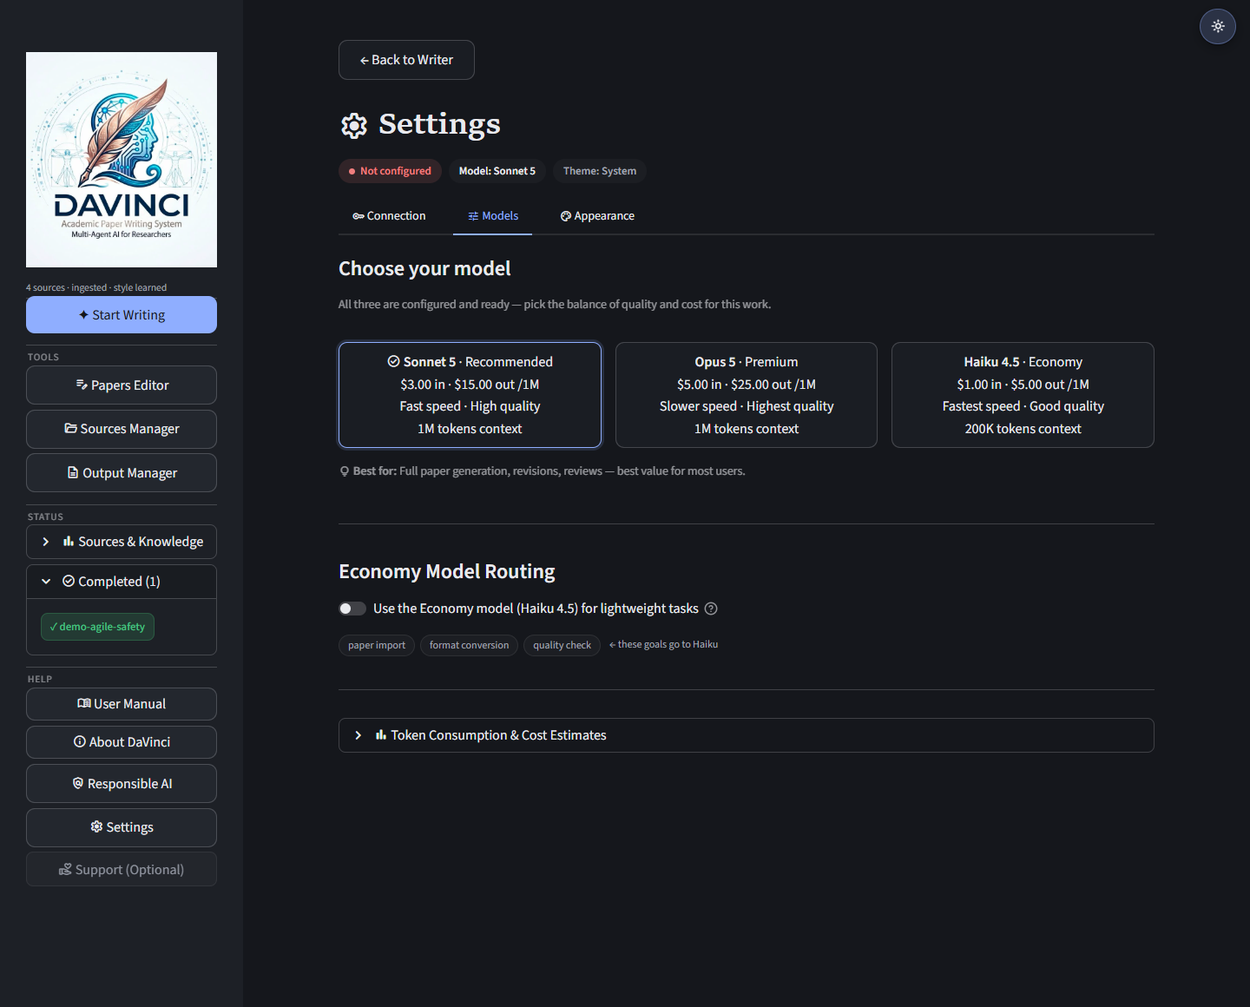
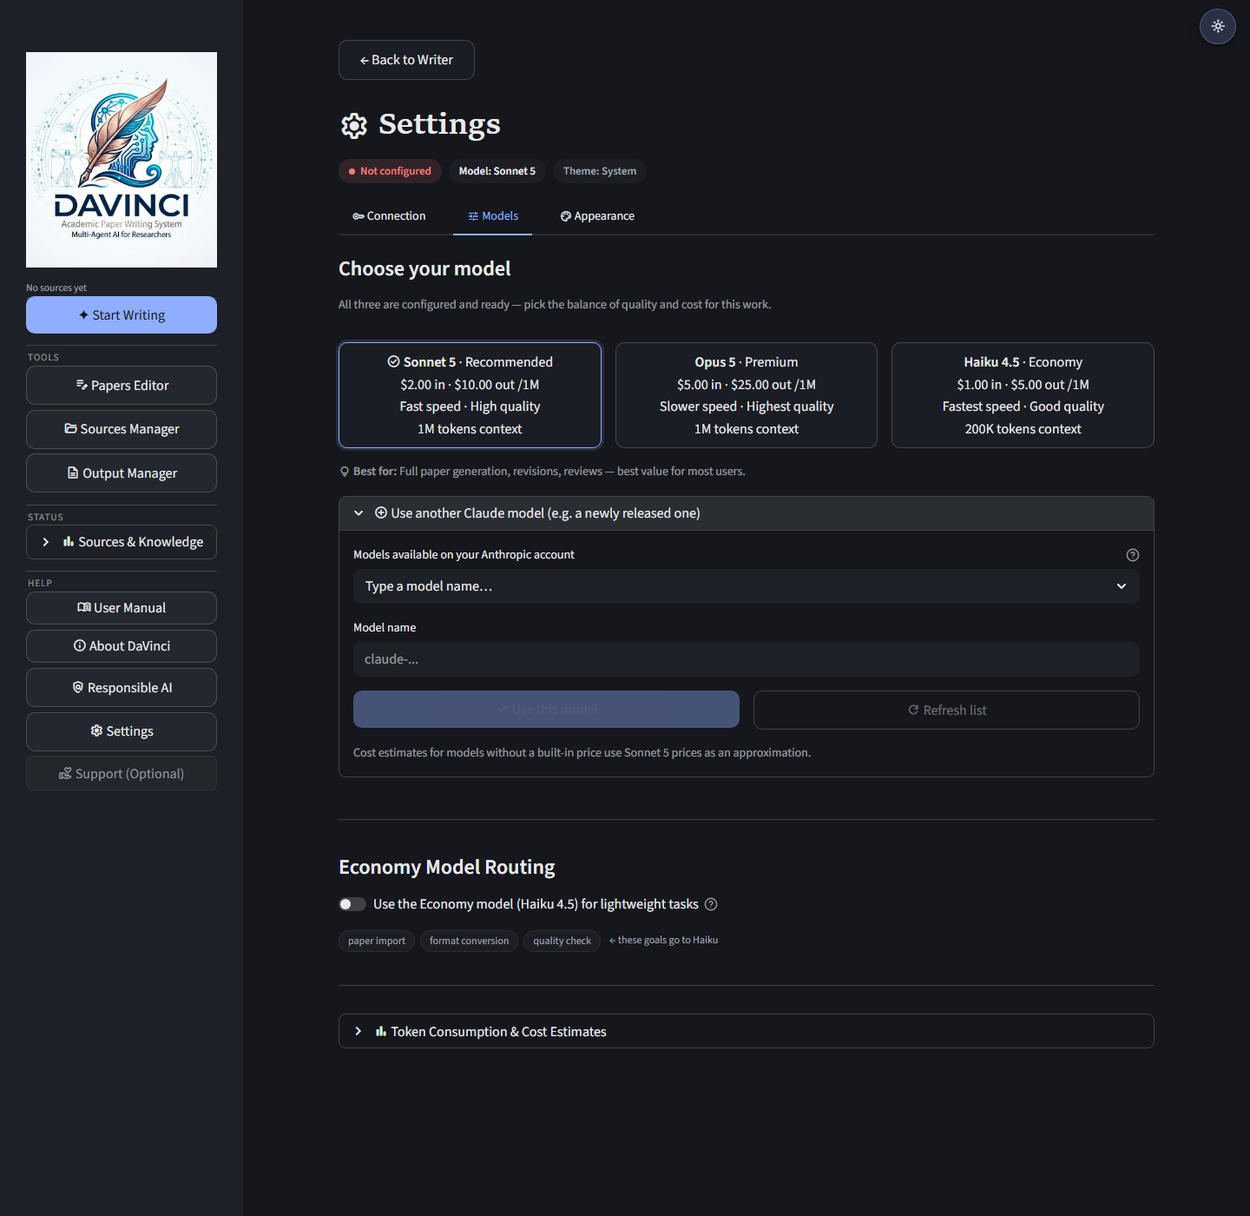
Settings: pick any Claude model on the account, local server presets, updated pricing
- Models tab lists all account models (incl. new releases) with refresh and free-text entry
- Local endpoint presets for Ollama, LM Studio and LiteLLM with plain-language setup guide
- Sonnet 5 price updated to $2/$10; added Sonnet 5.5, Opus 5.5, Haiku 5.5, Fable 5.1 prices
- Disabled primary buttons are greyed out
- Docs and screenshots updated

diff --git a/web/app.py b/web/app.py
@@ -483,6 +483,12 @@ h1, h2, h3,
     box-shadow: 0 1px 2px rgba(0,0,0,0.4), 0 4px 14px rgba(0,0,0,0.3);
     transform: translateY(-1px);
 }
+.stButton button[kind="primary"]:disabled {
+    opacity: 0.4;
+    cursor: not-allowed;
+    box-shadow: none;
+    transform: none;
+}
 /* Focus ring — accessibility */
 .stButton button:focus-visible {
     outline: 2px solid var(--primary) !important;
@@ -2057,7 +2063,7 @@ def _call_claude(system_prompt: str, user_message: str, progress_placeholder=Non
 
         # Accumulate session-wide usage and an estimated cost for the sidebar
         # (a local endpoint costs nothing)
-        p_in, p_out = (0.0, 0.0) if base_url else _MODEL_PRICES.get(model, (3.00, 15.00))
+        p_in, p_out = (0.0, 0.0) if base_url else _MODEL_PRICES.get(model, (2.00, 10.00))
         turn_cost = (
             usage_totals["input"] * p_in
             + usage_totals["cache_read"] * p_in * 0.1
@@ -2904,8 +2910,8 @@ elif st.session_state.page == "settings":
             "desc": "Best balance of quality, speed, and cost. Excellent for academic writing with strong reasoning.",
             "speed": "Fast",
             "quality": "High",
-            "cost_input": "$3.00",
-            "cost_output": "$15.00",
+            "cost_input": "$2.00",
+            "cost_output": "$10.00",
             "context": "1M tokens",
             "best_for": "Full paper generation, revisions, reviews — best value for most users.",
         },
@@ -3065,38 +3071,64 @@ elif st.session_state.page == "settings":
             # ---- Local endpoint pane ----
             st.caption(
                 "Run DaVinci cost-free against a local model through any server that speaks the "
-                "Anthropic Messages API — for example a LiteLLM proxy in front of Ollama. "
+                "Anthropic Messages API — Ollama, LM Studio, or a LiteLLM proxy. "
                 "No API key required."
             )
             if _local_active:
                 st.success(
                     f"Active: `{html.escape(_custom_base_url())}` · model `{html.escape(os.getenv('ANTHROPIC_MODEL', ''))}`"
                 )
-            with st.expander(":material/computer: How to set up Ollama + LiteLLM", expanded=not _local_active):
-                st.markdown("""
-1. Install [Ollama](https://ollama.com/) and pull a **tool-capable** model:
-   ```
-   ollama pull qwen2.5:14b
-   ```
-   (Also good: `llama3.1:8b` / `llama3.1:70b`, `mistral-nemo`. The model **must** support tool calling.)
-2. Start a [LiteLLM](https://docs.litellm.ai/) proxy that translates Anthropic ↔ Ollama:
-   ```
-   pip install "litellm[proxy]"
-   litellm --model ollama_chat/qwen2.5:14b --port 4000
-   ```
-3. Enter `http://localhost:4000` below, click **Test connection**, pick the model, and activate.
+            _SERVERS = {
+                "Ollama": "http://localhost:11434",
+                "LM Studio": "http://localhost:1234",
+                "LiteLLM proxy": "http://localhost:4000",
+                "Other": "",
+            }
+            if "custom_base_url_input" not in st.session_state:
+                st.session_state["custom_base_url_input"] = _custom_base_url() or _SERVERS["Ollama"]
 
-:material/warning: **Expectations:** local models are much weaker than Claude on this pipeline
-(tool-calling reliability, context length, writing quality). Best for imports,
-format conversion, and early drafts — switch back to the cloud for final papers.
+            def _on_server_change():
+                _url = _SERVERS[st.session_state["local_server_kind"]]
+                if _url:
+                    st.session_state["custom_base_url_input"] = _url
+                st.session_state.pop("_endpoint_models", None)
+
+            st.radio(
+                "Which program runs your model?",
+                list(_SERVERS),
+                horizontal=True,
+                key="local_server_kind",
+                on_change=_on_server_change,
+            )
+            with st.expander(":material/help: Step-by-step setup", expanded=not _local_active):
+                st.markdown("""
+**Ollama** (simplest)
+1. Install [Ollama](https://ollama.com/) and download a model, e.g. `ollama pull gemma4:31b` or `ollama pull qwen2.5:14b`.
+2. Keep Ollama running — that's it. Recent Ollama versions speak DaVinci's language directly.
+
+**LM Studio**
+1. Install [LM Studio](https://lmstudio.ai/), download and load a model.
+2. Open the **Developer** tab and click **Start Server**.
+
+**LiteLLM proxy** (only if your Ollama / LM Studio version is too old to connect directly)
+```
+pip install "litellm[proxy]"
+litellm --model ollama_chat/qwen2.5:14b --port 4000
+```
+
+**Then:** click **Connect & find models** below, pick your model from the list, and click **Use this endpoint**.
+
+:material/info: The model on another computer? Replace `localhost` with that computer's network address (e.g. `http://192.168.1.20:11434`).
+
+:material/warning: Pick a model that supports **tool calling** (Gemma 4, Qwen 2.5+, Llama 3.1+, Mistral Nemo…).
+Local models are weaker than Claude — great for imports, conversions and early drafts; switch to the cloud for final papers.
 """)
             _in_url = st.text_input(
-                "Endpoint base URL",
-                value=_custom_base_url(),
-                placeholder="http://localhost:4000",
+                "Server address",
+                placeholder="http://localhost:11434",
                 key="custom_base_url_input",
             )
-            if st.button(":material/search: Test connection", disabled=not _in_url.strip(), width="content"):
+            if st.button(":material/search: Connect & find models", disabled=not _in_url.strip(), width="content"):
                 _ok, _msg, _ids = _test_local_endpoint(_in_url.strip())
                 (st.success if _ok else st.error)(_msg)
 
@@ -3116,7 +3148,7 @@ format conversion, and early drafts — switch back to the cloud for final paper
                 _in_model = st.text_input(
                     "Model ID at this endpoint",
                     value=os.getenv("ANTHROPIC_MODEL", "") if _local_active else "",
-                    placeholder="ollama_chat/qwen2.5:14b",
+                    placeholder="e.g. gemma4:31b",
                     key="custom_model_id_input",
                 )
             else:
@@ -3202,8 +3234,52 @@ format conversion, and early drafts — switch back to the cloud for final paper
             _sel_info = _MODEL_INFO.get(current_model)
             if _sel_info:
                 st.caption(f":material/lightbulb: **Best for:** {_sel_info['best_for']}")
+
+            # Fetch the account's model list once per session so new releases show up automatically
+            if current_key and _cloud_models is None and not st.session_state.get("_cloud_models_tried"):
+                st.session_state["_cloud_models_tried"] = True
+                _test_anthropic_key(current_key)
+                _cloud_models = st.session_state.get("_cloud_models")
             if _cloud_models is None and current_key:
                 st.caption("Tip: *Save & Test* your key in the Connection tab to check per-model availability.")
+
+            _extra_models = [m for m in (_cloud_models or []) if m not in _MODEL_INFO]
+            _using_other = current_model not in _MODEL_INFO
+            with st.expander(
+                ":material/add_circle: Use another Claude model (e.g. a newly released one)",
+                expanded=_using_other,
+            ):
+                if _using_other:
+                    st.success(f"Currently using `{html.escape(current_model)}`")
+                _TYPE_OPT = "Type a model name…"
+                _other_opts = _extra_models + [_TYPE_OPT]
+                _other_pick = st.selectbox(
+                    "Models available on your Anthropic account",
+                    options=_other_opts,
+                    index=_other_opts.index(current_model) if current_model in _extra_models else 0,
+                    help="This list comes straight from Anthropic, so new models appear here as soon as they are released.",
+                )
+                if _other_pick == _TYPE_OPT:
+                    _other_model = st.text_input("Model name", placeholder="claude-...", key="cloud_custom_model")
+                else:
+                    _other_model = _other_pick
+                _oc1, _oc2 = st.columns(2)
+                with _oc1:
+                    if st.button(
+                        ":material/check: Use this model",
+                        type="primary",
+                        disabled=not (_other_model or "").strip() or _other_model == current_model,
+                        width="stretch",
+                    ):
+                        _set_env_vars({"ANTHROPIC_MODEL": _other_model.strip()})
+                        st.toast(f"Model changed to {_other_model.strip()}", icon=":material/check_circle:")
+                        st.rerun()
+                with _oc2:
+                    if st.button(":material/refresh: Refresh list", disabled=not current_key, width="stretch"):
+                        _ok, _msg = _test_anthropic_key(current_key)
+                        (st.toast if _ok else st.error)(_msg)
+                        st.rerun()
+                st.caption("Cost estimates for models without a built-in price use Sonnet 5 prices as an approximation.")
 
             st.markdown("---")
 
@@ -3249,15 +3325,15 @@ format conversion, and early drafts — switch back to the cloud for final paper
             _cost_tab_sonnet, _cost_tab_opus, _cost_tab_haiku = st.tabs([":material/paid: Sonnet 5", ":material/diamond: Opus 5", ":material/bolt: Haiku 4.5"])
 
             with _cost_tab_sonnet:
-                st.markdown("**$3.00 USD / 1M input** · **$15.00 USD / 1M output**")
+                st.markdown("**$2.00 USD / 1M input** · **$10.00 USD / 1M output**")
                 st.markdown("""
 | Task | Input Tokens | Output Tokens | Cost (USD) |
 |------|-------------|---------------|------------|
-| Ingest 1 source | ~5K–15K | ~2K–4K | ~$0.05–$0.08 |
-| Write full paper | ~30K–80K | ~15K–30K | ~$0.30–$0.70 |
-| Improve/revise | ~40K–100K | ~10K–25K | ~$0.25–$0.50 |
-| Peer review sim | ~20K–50K | ~5K–10K | ~$0.15–$0.25 |
-| Full pipeline | ~100K–200K | ~40K–60K | ~$1.00–$1.50 |
+| Ingest 1 source | ~5K–15K | ~2K–4K | ~$0.03–$0.07 |
+| Write full paper | ~30K–80K | ~15K–30K | ~$0.21–$0.46 |
+| Improve/revise | ~40K–100K | ~10K–25K | ~$0.18–$0.45 |
+| Peer review sim | ~20K–50K | ~5K–10K | ~$0.09–$0.20 |
+| Full pipeline | ~100K–200K | ~40K–60K | ~$0.60–$1.00 |
 """)
 
             with _cost_tab_opus:

diff --git a/web/davinci_core.py b/web/davinci_core.py
@@ -22,9 +22,14 @@ VENUES_DIR = SOURCES_DIR / "venues"
 _DEFAULT_MODEL = "claude-sonnet-5"
 # USD per 1M tokens (input, output) — used for the session cost estimate
 _MODEL_PRICES = {
-    "claude-sonnet-5": (3.00, 15.00),
+    "claude-sonnet-5": (2.00, 10.00),
     "claude-opus-5": (5.00, 25.00),
     "claude-haiku-4-5": (1.00, 5.00),
+    "claude-sonnet-5-5": (2.00, 10.00),
+    "claude-opus-5-5": (4.00, 20.00),
+    # Prompts over 100K tokens cost $0.50 / $2.50 on Haiku 5.5
+    "claude-haiku-5-5": (0.10, 0.50),
+    "claude-fable-5-1": (10.00, 50.00),
 }
 # Lightweight goals routed to ANTHROPIC_MODEL_FAST when configured in Settings
 _FAST_MODEL_GOALS = {"import", "convert", "quality"}

diff --git a/docs/USER-MANUAL.md b/docs/USER-MANUAL.md
@@ -421,7 +421,7 @@ The Settings page is organized into three tabs:
 First choose **where DaVinci should run**:
 
 - **Anthropic Cloud** — the default. Best quality; requires an API key.
-- **Local endpoint** — cost-free generation through a local model server (Ollama behind a LiteLLM proxy, LM Studio, or any server that speaks the Anthropic Messages API).
+- **Local endpoint** — cost-free generation through a local model server (Ollama, LM Studio, a LiteLLM proxy, or any server that speaks the Anthropic Messages API).
 
 A **transparency note** under the choice reminds you that Anthropic Cloud receives your source text and drafts, while a local endpoint keeps everything on your machine.
 
@@ -435,10 +435,16 @@ A **transparency note** under the choice reminds you that Anthropic Cloud receiv
 
 **Local endpoint pane:**
 
-- A built-in **setup recipe** for Ollama + LiteLLM (expandable, step-by-step)
-- **Endpoint URL input** with **Test connection** — probes the server and fetches available models so you can choose from a dropdown
+![Local endpoint settings](images/settings-local-endpoint.png)
+![Local endpoint settings (Light Theme)](images/settings-local-endpoint-light.png)
+
+- **Which program runs your model?** — choose **Ollama**, **LM Studio**, **LiteLLM proxy**, or **Other**; the usual server address is filled in automatically (`http://localhost:11434`, `:1234`, `:4000`)
+- A built-in **step-by-step setup guide** for each option, including how to reach a model running on another computer on your network
+- **Server address** with **Connect & find models** — probes the server and lists the models installed there so you can pick one from a dropdown (or type its name)
 - **Use this endpoint** — activates local generation (no API key needed; session cost shows as free)
 - **Back to Anthropic cloud** — one click to switch back
+
+> **Tip:** Pick a model that supports **tool calling** (e.g. Gemma 4, Qwen 2.5+, Llama 3.1+, Mistral Nemo). If an older Ollama or LM Studio version will not connect directly, run a LiteLLM proxy in front of it and choose **LiteLLM proxy**.
 
 > **Privacy:** Your API key is stored only in the `.env` file on your machine. It is never sent to any server other than Anthropic's API.
 >
@@ -447,14 +453,17 @@ A **transparency note** under the choice reminds you that Anthropic Cloud receiv
 ### 🤖 Models Tab
 
 ![Models tab](images/settings-model-costs.png)
+![Models tab (Light Theme)](images/settings-model-costs-light.png)
 
 Pick your model from three side-by-side **comparison cards** — each shows the price per million tokens, speed, quality, and context window. Click a card to select it; the active card is highlighted. After a key test, each card also shows whether that model is available on your account.
 
 | Model | Best For | Speed | Cost (per 1M tokens) |
 |-------|----------|-------|------|
-| **Sonnet 5** (Recommended) | Full paper generation, revisions, reviews | Fast | \$3 in · \$15 out |
+| **Sonnet 5** (Recommended) | Full paper generation, revisions, reviews | Fast | \$2 in · \$10 out |
 | **Opus 5** (Premium) | Complex papers, novel argumentation, final polishing | Slower | \$5 in · \$25 out |
 | **Haiku 4.5** (Economy) | Paper import, format conversion, quality checks | Fastest | \$1 in · \$5 out |
+
+**Use another Claude model** — below the cards, this section lists every model available on your Anthropic account (fetched automatically, with a **Refresh list** button), so newly released models such as Sonnet 5.5, Opus 5.5, or Haiku 5.5 can be selected without any update. You can also type a model name. Cost estimates are built in for these newer models; any unknown model is estimated at Sonnet 5 prices.
 
 **Economy Model Routing** — routes lightweight goals (paper import, format conversion, quality check) to Haiku 4.5 while writing, revision, and review stay on your main model. This usually cuts cost without hurting paper quality.
 
@@ -665,7 +674,7 @@ Also review the automated reports before relying on them — `citation-verificat
 A: No. The Web UI is a point-and-click interface.
 
 **Q: What AI model does it use?**
-A: The Web UI uses Claude by Anthropic. Choose Sonnet 5 (recommended), Opus 5 (premium), or Haiku 4.5 (economy) in **⚙ Settings → Models**, or point the app to a local model in **⚙ Settings → Connection**. In VS Code, it uses the model configured in your GitHub Copilot subscription.
+A: The Web UI uses Claude by Anthropic. Choose Sonnet 5 (recommended), Opus 5 (premium), or Haiku 4.5 (economy) in **⚙ Settings → Models** — or any other model on your account (e.g. newer releases) under **Use another Claude model** — or point the app to a local model in **⚙ Settings → Connection**. In VS Code, it uses the model configured in your GitHub Copilot subscription.
 
 **Q: Is my data sent to the cloud?**
 A: When using the Web UI with the Anthropic cloud, your source text is sent to Anthropic's API for processing. Your original files and API key remain on your computer. With a local endpoint, nothing leaves your machine. See **⚙ Settings → Connection** for details.
@@ -674,7 +683,7 @@ A: When using the Web UI with the Anthropic cloud, your source text is sent to A
 A: Open **⚙ Settings → Connection**, paste your key, and click **Save & Test**. Alternatively, set `ANTHROPIC_API_KEY` in a `.env` file in the DaVinci folder.
 
 **Q: Can I use it offline?**
-A: Yes, with a local model. Choose **Local endpoint** in **⚙ Settings → Connection** and follow the built-in Ollama + LiteLLM recipe. Generation then runs on your machine at no cost. Expect lower quality than cloud models; Anthropic cloud requires an internet connection.
+A: Yes, with a local model. Choose **Local endpoint** in **⚙ Settings → Connection** and follow the built-in setup guide (Ollama, LM Studio, or LiteLLM). Generation then runs on your machine at no cost. Expect lower quality than cloud models; Anthropic cloud requires an internet connection.
 
 **Q: How can I support the project?**
 A: In the sidebar **Help** section, click **Support (Optional)**. You can also use the support card on the **About DaVinci** page, or the one-time hint shown when a pipeline completes. Tips are voluntary and help cover development, maintenance, and hosting costs.
@@ -721,7 +730,7 @@ A: Yes. Share the workspace folder. Co-authors can add their feedback using the 
 | Problem | Solution |
 |---------|----------|
 | "API key not configured" | Open **⚙ Settings → Connection**, paste your key, and click **Save & Test**. Or create a `.env` file in the DaVinci root with `ANTHROPIC_API_KEY=sk-ant-...` |
-| Local endpoint not responding | Click **Test connection** in **⚙ Settings → Connection** — make sure your LiteLLM proxy (or LM Studio server) is running and the URL includes the port, e.g. `http://localhost:4000` |
+| Local endpoint not responding | Click **Connect & find models** in **⚙ Settings → Connection** — make sure Ollama / LM Studio (or your LiteLLM proxy) is running and the address includes the port, e.g. `http://localhost:11434` (Ollama), `:1234` (LM Studio), `:4000` (LiteLLM) |
 | Page won't load | Make sure Streamlit is running: `streamlit run web/app.py`, use `Start DaVinci.command` (macOS), use `start.bat` (Windows), or run the OS-specific scripts in `scripts/macos/` or `scripts/windows/` |
 | Upload fails | Check that the `sources/` folders exist and are writable |
 | "Module not found" error | Run `pip3 install -r web/requirements.txt` |

diff --git a/README.md b/README.md
@@ -186,7 +186,7 @@ Open http://localhost:8501. Stop with `docker compose down`.
 - **📝 Papers Editor** — Open any generated paper, select a section from the list, edit it in a full-height text area, and save directly to disk.
 - **📂 Sources Manager** — Browse, preview, upload, and delete files in your `sources/` folders, and view ingested knowledge summaries.
 - **📄 Output Manager** — Browse, preview, and download all generated manuscripts and reports.
-- **⚙ Settings** — Choose your provider (Anthropic cloud or a local endpoint), configure and verify your API key with Save & Test, pick a Claude model (Sonnet 5 / Opus 5 / Haiku 4.5) from comparison cards, enable Economy routing, track session costs, and switch between System, Dark, and Light themes.
+- **⚙ Settings** — Choose your provider (Anthropic cloud or a local endpoint), configure and verify your API key with Save & Test, pick a Claude model (Sonnet 5 / Opus 5 / Haiku 4.5) from comparison cards or any other model on your account (e.g. newly released ones), enable Economy routing, track session costs, and switch between System, Dark, and Light themes.
 - **🛡 Responsible AI** — A sidebar page with the EU AI Act notice and data-flow details (cloud vs. local).
 - **🤝 Optional Support** — A subtle Support entry in the Help section, an About-page support card, and a one-time hint after a pipeline completes link to Ko-fi for voluntary tips (no paywalls, no feature gating).
 - **💾 Session Persistence** — Sessions auto-save after each message; resume any of your five most recent sessions from the sidebar after closing the browser.
@@ -205,24 +205,27 @@ Open http://localhost:8501. Stop with `docker compose down`.
 
 See the **[User Manual](docs/USER-MANUAL.md)** for a screen-by-screen walkthrough.
 
-#### Using a local model (Ollama) — cost-free option
+#### Using a local model (Ollama / LM Studio) — cost-free option
 
 The Web UI can run against a **local model** instead of Anthropic cloud, using any
-server that supports the Anthropic Messages API. The tested recipe uses
-[LiteLLM](https://docs.litellm.ai/) in front of [Ollama](https://ollama.com/):
+server that supports the Anthropic Messages API. Pick a **tool-capable** model
+(e.g. Gemma 4, Qwen 2.5+, Llama 3.1+) — the pipeline is tool-driven.
+
+1. **Ollama** — install [Ollama](https://ollama.com/) and pull a model (`ollama pull qwen2.5:14b`), or
+   **LM Studio** — load a model and click **Start Server** in the Developer tab.
+2. Open **⚙ Settings → Connection**, choose **Local endpoint**, select which program runs
+   your model (the server address is filled in for you), click **Connect & find models**,
+   pick your model from the list, and click **Use this endpoint**.
+
+If your Ollama / LM Studio version is too old to connect directly, put a
+[LiteLLM](https://docs.litellm.ai/) proxy in front of it and choose **LiteLLM proxy**:
 
 ```bash
-# 1. Pull a tool-capable model (required — the pipeline is tool-driven)
-ollama pull qwen2.5:14b
-
-# 2. Start the translation proxy
 pip install "litellm[proxy]"
 litellm --model ollama_chat/qwen2.5:14b --port 4000
 ```
 
-Then open **⚙ Settings → Connection**, choose **Local endpoint**, enter
-`http://localhost:4000`, click **Test connection** to fetch the model list, then click
-**Use this endpoint**. No API key is needed while a local endpoint is active,
+No API key is needed while a local endpoint is active,
 and session cost is shown as free. Equivalent `.env` configuration:
 `ANTHROPIC_BASE_URL` + `ANTHROPIC_MODEL` (see `.env.example`).
 

diff --git a/docs/ABOUT.md b/docs/ABOUT.md
@@ -23,8 +23,8 @@ DaVinci Writer automates the mechanical parts of paper writing so you can focus 
 - **Sources Manager** — browse, preview, upload, and delete workspace source files in the browser
 - **Papers Editor** — view and edit any generated paper section directly in the browser
 - **Output Manager** — browse, preview, and download all generated manuscripts and reports
-- **Model choice & cost control** — pick Sonnet 5, Opus 5, or Haiku 4.5 from comparison cards; optional Economy routing sends lightweight tasks to the cheapest model; live per-session cost tracking; automatic prompt caching cuts input costs by 70–90%
-- **Local model support** — run cost-free against Ollama (via a LiteLLM proxy), LM Studio, or any Anthropic-compatible endpoint, configured entirely from Settings
+- **Model choice & cost control** — pick Sonnet 5, Opus 5, or Haiku 4.5 from comparison cards, or any newer model on your Anthropic account; optional Economy routing sends lightweight tasks to the cheapest model; live per-session cost tracking; automatic prompt caching cuts input costs by 70–90%
+- **Local model support** — run cost-free against Ollama, LM Studio, a LiteLLM proxy, or any Anthropic-compatible endpoint, configured entirely from Settings with guided presets
 - **Themes** — System, Dark, or Light appearance, switchable from Settings or the top-bar toggle
 - **Responsible AI page** — EU AI Act notice and cloud-vs-local data-flow details, one click from the sidebar
 - **Community-supported sustainability** — optional Ko-fi tips are available from the sidebar, the About page, and after a pipeline completes to help cover development, maintenance, and hosting costs (no paywalls or feature gating)

diff --git a/CHANGELOG.md b/CHANGELOG.md
@@ -1,5 +1,14 @@
 # Changelog
 
+## Unreleased
+
+### Changes
+
+- Settings → Models: new **Use another Claude model** section lists every model on your Anthropic account, so new releases can be selected without an app update.
+- Settings → Connection: local endpoint presets for Ollama, LM Studio, and LiteLLM with auto-filled addresses and a plain-language setup guide.
+- Updated Sonnet 5 pricing to \$2 / \$10 per 1M tokens and added cost estimates for Sonnet 5.5, Opus 5.5, Haiku 5.5, and Fable 5.1.
+- Disabled primary buttons are now visibly greyed out.
+
 ## v1.0.2 — 2026-10-26
 
 ### Changes
